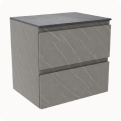
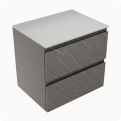
update type images

diff --git a/src/features/sidebar/ui/RightCabinetStyleSidebar/RightCabinetStyleSidebar.tsx b/src/features/sidebar/ui/RightCabinetStyleSidebar/RightCabinetStyleSidebar.tsx
@@ -107,9 +107,9 @@ export const RightCabinetStyleSidebar = () => {
     dispatch(setSelectedDimensions({ depth: Number(value) }));
   };
 
-  const handleChangeHeight = (value: string | number) => {
-    dispatch(setSelectedDimensions({ height: Number(value) }));
-  };
+  // const handleChangeHeight = (value: string | number) => {
+  //   dispatch(setSelectedDimensions({ height: Number(value) }));
+  // };
 
   const handleSetHandleType = (handleType: string) => {
     dispatch(
@@ -218,7 +218,7 @@ export const RightCabinetStyleSidebar = () => {
           />
         </div>
 
-        <div className={s.contentItem}>
+        {/* <div className={s.contentItem}>
           <div>Height</div>
           <FilterSelection
             label={"Height"}
@@ -226,7 +226,7 @@ export const RightCabinetStyleSidebar = () => {
             value={selectedDimensions.height}
             onSelect={(value) => handleChangeHeight(value)}
           />
-        </div>
+        </div> */}
 
         {!handlesDisabled && (
           <div className={s.contentItem}>

diff --git a/src/pages/custom/cabinetBuilder/constants.ts b/src/pages/custom/cabinetBuilder/constants.ts
@@ -1,7 +1,7 @@
 import sinkBaseImage from "@/shared/assets/images/png/sink_base.png";
 import sinkCabinetImage from "@/shared/assets/images/png/sink_cabinet.png";
 import openShelfImage from "@/shared/assets/images/png/open_shelf.png";
-import sideShelfImage from "@/shared/assets/images/png/side-shelf.png";
+import sideShelfImage from "@/shared/assets/images/png/side_shelf.png";
 import oneDrawerImage from "@/shared/assets/images/png/1_drawer.png";
 import twoDrawerImage from "@/shared/assets/images/png/2_drawer.png";
 
